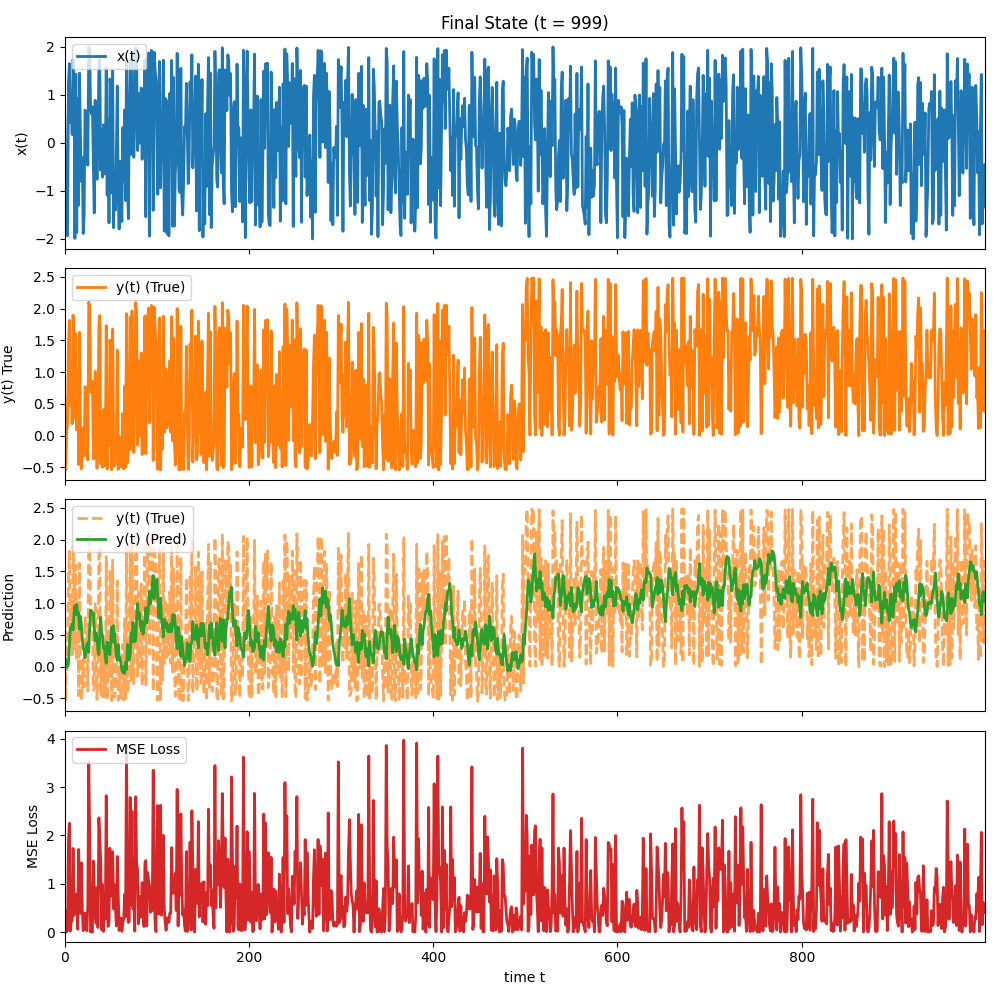
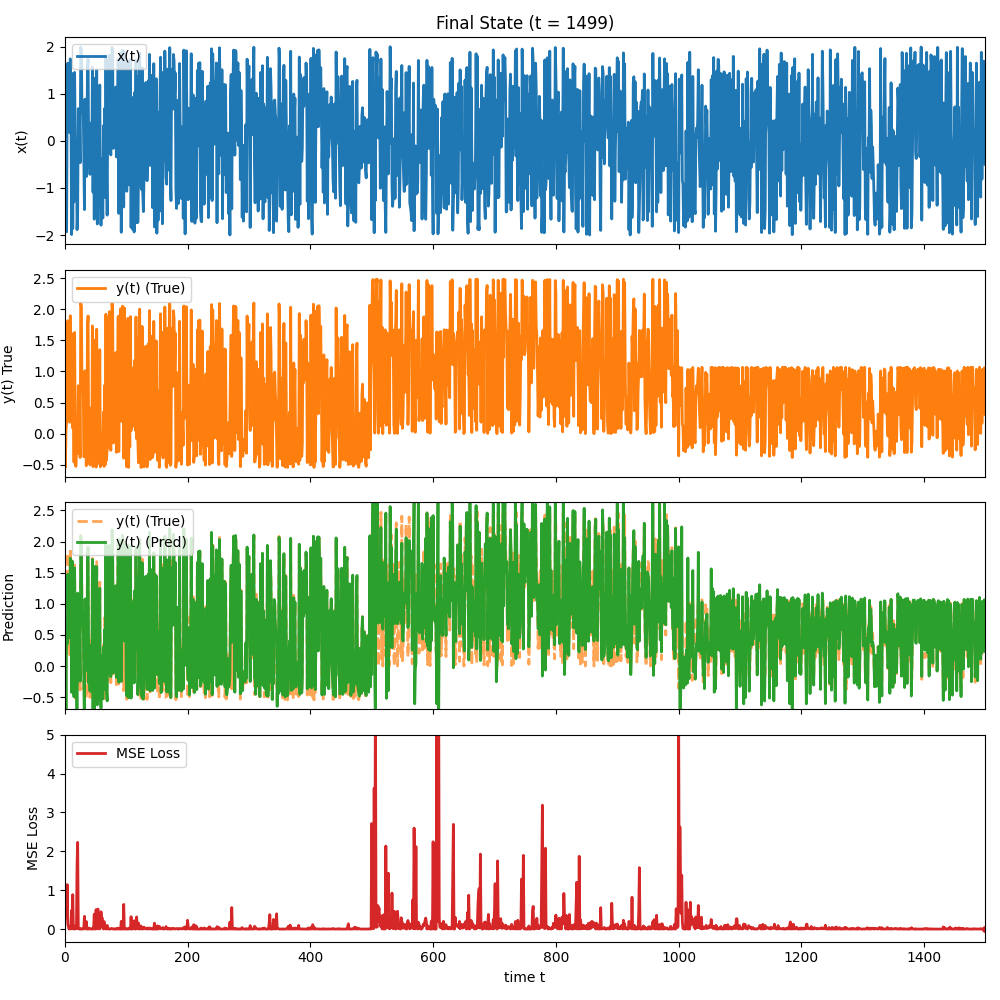
get MLP to work

diff --git a/demos/function_tracking/mlp_model/firmware/parameters.h b/demos/function_tracking/mlp_model/firmware/parameters.h
@@ -31,138 +31,138 @@ struct Context {
 //PARAM-INIT
 static Params P = {
     { {
-{ weight_t(-3.99126828e-02) },
-{ weight_t(-1.43560027e+00) },
-{ weight_t(-9.87890044e-01) },
-{ weight_t(-1.39210786e+00) },
-{ weight_t(-1.07933846e+00) },
-{ weight_t(1.41237983e-01) },
-{ weight_t(-2.19310129e-01) },
-{ weight_t(-3.11536338e-01) },
-{ weight_t(-7.61765704e-01) },
-{ weight_t(-9.20113318e-01) },
-{ weight_t(-1.96950721e+00) },
-{ weight_t(-1.62544162e+00) },
-{ weight_t(-1.34812057e-01) },
-{ weight_t(-1.89326437e+00) },
-{ weight_t(-8.70582737e-01) },
-{ weight_t(-1.65721557e+00) },
-{ weight_t(-1.12157088e+00) },
-{ weight_t(-9.72752400e-01) },
-{ weight_t(-2.41883388e+00) },
-{ weight_t(-6.73053316e-01) },
-{ weight_t(3.89557237e-02) },
-{ weight_t(-8.02290403e-01) },
-{ weight_t(-2.04057630e-01) },
-{ weight_t(-2.97018069e+00) },
-{ weight_t(-3.71632858e-01) },
-{ weight_t(-2.33867735e-01) },
-{ weight_t(4.79799439e-01) },
-{ weight_t(-3.59470972e+00) },
-{ weight_t(-8.98058712e-01) },
-{ weight_t(-1.31170204e+00) },
-{ weight_t(-1.83828655e+00) },
-{ weight_t(-6.08496957e-01) },
-{ weight_t(-2.83199850e-01) },
-{ weight_t(-2.89561005e+00) },
-{ weight_t(-3.32024661e+00) },
-{ weight_t(-3.17523078e-01) },
-{ weight_t(-1.44104185e+00) },
-{ weight_t(9.96627474e-02) },
-{ weight_t(-2.82773376e-01) },
-{ weight_t(-1.10989921e+00) },
-{ weight_t(-6.26031333e-01) },
-{ weight_t(-4.48631984e-01) },
-{ weight_t(-3.01633472e-01) },
-{ weight_t(-1.28908783e+00) },
-{ weight_t(-2.33365949e+00) },
-{ weight_t(-1.57052787e+00) },
-{ weight_t(-2.42795635e+00) },
-{ weight_t(-9.05694134e-01) },
-{ weight_t(-1.71075984e+00) },
-{ weight_t(-2.64577829e-01) },
-{ weight_t(2.12033963e-03) },
-{ weight_t(-1.05790142e+00) },
-{ weight_t(-9.76809001e-01) },
-{ weight_t(-1.33104810e+00) },
-{ weight_t(-2.13667708e+00) },
-{ weight_t(-1.20933059e+00) },
-{ weight_t(8.20511343e-02) },
-{ weight_t(-1.44289902e+00) },
-{ weight_t(-1.76255478e+00) },
-{ weight_t(-2.18156505e+00) },
-{ weight_t(-2.25701765e+00) },
-{ weight_t(-8.67078888e-02) },
-{ weight_t(9.40534088e-02) },
-{ weight_t(6.41378536e-01) },
-{ weight_t(-2.39448667e+00) },
-{ weight_t(1.00070331e+00) },
-{ weight_t(-7.16290855e-01) },
-{ weight_t(9.93008779e-01) },
-{ weight_t(-9.72770758e-01) },
-{ weight_t(-1.15321122e+00) },
-{ weight_t(-2.04721040e+00) },
-{ weight_t(-1.89120391e+00) },
-{ weight_t(-2.29976397e+00) },
-{ weight_t(-9.36305111e-01) },
-{ weight_t(1.43242483e+00) },
-{ weight_t(-2.45184635e+00) },
-{ weight_t(-2.49985449e+00) },
-{ weight_t(-1.68607970e+00) },
-{ weight_t(-1.93033576e+00) },
-{ weight_t(-1.67229185e+00) },
-{ weight_t(1.77774293e-01) },
-{ weight_t(-2.15651380e+00) },
-{ weight_t(-4.61273007e-01) },
-{ weight_t(-3.31546534e-01) },
-{ weight_t(-2.47134778e+00) },
-{ weight_t(-1.89471600e+00) },
-{ weight_t(-2.20430772e+00) },
-{ weight_t(-7.47546738e-01) },
-{ weight_t(-1.98334405e+00) },
-{ weight_t(-2.31335007e+00) },
-{ weight_t(-1.41616880e+00) },
-{ weight_t(-1.01781910e-01) },
-{ weight_t(-2.32834846e+00) },
-{ weight_t(-2.27021653e+00) },
-{ weight_t(-9.68409360e-01) },
-{ weight_t(3.02395463e-02) },
-{ weight_t(-3.06321816e-01) },
-{ weight_t(-7.39910949e-01) },
-{ weight_t(-2.67868470e-01) },
-{ weight_t(-1.32872007e+00) },
-{ weight_t(-1.32940521e+00) },
-{ weight_t(-1.36759425e+00) },
-{ weight_t(-2.48675735e+00) },
-{ weight_t(-1.04169437e+00) },
-{ weight_t(-2.75132729e+00) },
-{ weight_t(-1.23269647e+00) },
-{ weight_t(-2.18502829e+00) },
-{ weight_t(-2.01106800e+00) },
-{ weight_t(-1.01494022e+00) },
-{ weight_t(-2.38899724e+00) },
-{ weight_t(-1.70777847e+00) },
-{ weight_t(5.32546668e-01) },
-{ weight_t(-1.46397634e+00) },
-{ weight_t(-2.05894637e-01) },
-{ weight_t(-1.45695149e+00) },
-{ weight_t(8.58108329e-01) },
-{ weight_t(-2.47225176e+00) },
-{ weight_t(-5.00561822e-01) },
-{ weight_t(-3.77404263e-01) },
-{ weight_t(-2.49211913e-01) },
-{ weight_t(-1.59606787e+00) },
-{ weight_t(-2.28445391e-01) },
-{ weight_t(-1.17903740e+00) },
-{ weight_t(-2.24455327e+00) },
-{ weight_t(-1.09434332e+00) },
-{ weight_t(-1.26511777e+00) },
-{ weight_t(7.95782386e-02) },
-{ weight_t(-2.02852792e+00) }
-}, { weight_t(-1.13176762e+00), weight_t(-2.49891177e+00), weight_t(-2.09936376e+00), weight_t(-1.30676925e+00), weight_t(-5.17792649e-01), weight_t(-3.21166228e+00), weight_t(-1.45993361e-01), weight_t(-7.71817388e-01), weight_t(-4.80172826e-01), weight_t(-1.41182776e+00), weight_t(-2.27056418e+00), weight_t(-1.30223962e+00), weight_t(-1.22227446e+00), weight_t(-1.67160339e+00), weight_t(-4.51241565e-01), weight_t(-2.11319608e+00), weight_t(-2.36129337e+00), weight_t(-2.14745726e+00), weight_t(-1.86185480e+00), weight_t(-9.98345649e-01), weight_t(-7.37228879e-01), weight_t(-2.31221966e+00), weight_t(-1.89037602e+00), weight_t(-2.49468210e+00), weight_t(2.01525636e-01), weight_t(-4.41935287e-01), weight_t(-6.80950932e-01), weight_t(-1.62244213e+00), weight_t(-1.88279586e+00), weight_t(4.12790040e-02), weight_t(2.38362771e-01), weight_t(-3.79497067e+00), weight_t(-3.23757705e-01), weight_t(3.05210643e-01), weight_t(-2.54376335e+00), weight_t(-1.99805980e+00), weight_t(-1.73026896e+00), weight_t(1.71788811e+00), weight_t(-3.11979719e-02), weight_t(2.24402215e-01), weight_t(-6.64539911e-01), weight_t(-1.13267071e+00), weight_t(-2.50426990e+00), weight_t(-2.00928404e+00), weight_t(-2.18404173e+00), weight_t(-1.09795414e+00), weight_t(-1.90246189e+00), weight_t(-9.57577071e-01), weight_t(-1.28604637e-01), weight_t(-7.23256224e-01), weight_t(-9.38493446e-01), weight_t(-2.73679232e+00), weight_t(-1.91949732e+00), weight_t(-1.23348044e+00), weight_t(5.16629818e-01), weight_t(8.75584674e-01), weight_t(-3.06958094e+00), weight_t(-2.84472485e-01), weight_t(-8.66966907e-01), weight_t(-2.16139021e+00), weight_t(-1.05018669e+00), weight_t(-1.13398477e+00), weight_t(-2.30614980e-01), weight_t(-1.24673655e+00), weight_t(-1.12279078e+00), weight_t(-1.76922797e+00), weight_t(-2.62334469e-01), weight_t(-1.25335717e+00), weight_t(-1.33827932e+00), weight_t(-1.28543634e+00), weight_t(-1.43133430e+00), weight_t(-1.43136249e+00), weight_t(4.12723848e-01), weight_t(-1.03803101e+00), weight_t(-1.40775005e+00), weight_t(-7.33354922e-01), weight_t(-3.21044850e-01), weight_t(-8.25105549e-01), weight_t(4.04901409e-01), weight_t(-6.99069946e-01), weight_t(-1.32845264e+00), weight_t(-1.78606880e+00), weight_t(-2.73207940e+00), weight_t(-4.84500790e-01), weight_t(-7.88797298e-01), weight_t(-1.74961474e+00), weight_t(-1.65713219e+00), weight_t(-1.02523370e+00), weight_t(-1.19356055e-02), weight_t(-1.55849800e-01), weight_t(-2.04580886e+00), weight_t(-8.65451715e-01), weight_t(-1.08110651e+00), weight_t(-1.33753285e+00), weight_t(-6.02048177e-01), weight_t(-1.74134620e+00), weight_t(-9.96752718e-01), weight_t(-1.29366565e+00), weight_t(-1.97173204e+00), weight_t(-2.63237333e+00), weight_t(-7.61028491e-01), weight_t(-3.14414438e+00), weight_t(-9.81802318e-02), weight_t(-5.48798755e-01), weight_t(-2.17161671e+00), weight_t(-6.56229884e-02), weight_t(-1.50648702e+00), weight_t(-3.22060126e+00), weight_t(1.14329332e+00), weight_t(-5.74565447e-01), weight_t(-3.18042406e+00), weight_t(-5.42325534e-02), weight_t(-1.34157694e-02), weight_t(8.79080184e-01), weight_t(-2.43329582e+00), weight_t(-1.07561615e+00), weight_t(-2.42012327e-01), weight_t(6.90665335e-01), weight_t(3.48476488e-01), weight_t(-1.59896864e+00), weight_t(-9.23271138e-01), weight_t(-7.45851559e-01), weight_t(-1.13982026e+00), weight_t(3.25045693e-02), weight_t(-1.39149305e+00), weight_t(1.71481198e-01), weight_t(-1.67874628e+00), weight_t(-7.32401472e-01) } },
+{ weight_t(4.25936079e-01) },
+{ weight_t(-9.48994006e-01) },
+{ weight_t(-1.21900153e-01) },
+{ weight_t(8.72141177e-01) },
+{ weight_t(6.72432341e-01) },
+{ weight_t(-7.33813287e-01) },
+{ weight_t(-6.81451487e-01) },
+{ weight_t(-2.24213009e-01) },
+{ weight_t(4.85032357e-01) },
+{ weight_t(-1.93710027e-01) },
+{ weight_t(-8.98243093e-01) },
+{ weight_t(-3.21318776e-01) },
+{ weight_t(-3.78447974e-01) },
+{ weight_t(9.98495520e-01) },
+{ weight_t(6.35312788e-01) },
+{ weight_t(5.03031763e-01) },
+{ weight_t(4.75502686e-01) },
+{ weight_t(2.10944748e-01) },
+{ weight_t(1.65356886e-01) },
+{ weight_t(9.04702543e-01) },
+{ weight_t(6.12167081e-01) },
+{ weight_t(-5.84803819e-02) },
+{ weight_t(-8.57621835e-01) },
+{ weight_t(3.92466725e-01) },
+{ weight_t(8.08139356e-01) },
+{ weight_t(-2.92129186e-01) },
+{ weight_t(-6.30788944e-01) },
+{ weight_t(-5.49857085e-01) },
+{ weight_t(-8.53109290e-02) },
+{ weight_t(6.23344870e-01) },
+{ weight_t(-5.41784740e-01) },
+{ weight_t(-1.13106785e-01) },
+{ weight_t(1.10134178e-01) },
+{ weight_t(-7.17408142e-01) },
+{ weight_t(-8.46501402e-01) },
+{ weight_t(2.82484327e-01) },
+{ weight_t(-5.51451603e-02) },
+{ weight_t(-8.68549048e-01) },
+{ weight_t(8.29377625e-01) },
+{ weight_t(-7.42920624e-01) },
+{ weight_t(-4.43553353e-02) },
+{ weight_t(1.62241324e-01) },
+{ weight_t(-2.95576191e-01) },
+{ weight_t(-7.50943184e-01) },
+{ weight_t(3.31723997e-01) },
+{ weight_t(-4.84181337e-01) },
+{ weight_t(-8.82261039e-01) },
+{ weight_t(1.46155876e-01) },
+{ weight_t(-4.98334791e-01) },
+{ weight_t(4.04197981e-01) },
+{ weight_t(-8.59484713e-01) },
+{ weight_t(-6.57515416e-02) },
+{ weight_t(6.92591242e-01) },
+{ weight_t(-4.37019090e-01) },
+{ weight_t(4.54921010e-01) },
+{ weight_t(9.16256534e-01) },
+{ weight_t(6.66007751e-01) },
+{ weight_t(8.09005714e-01) },
+{ weight_t(8.23458170e-01) },
+{ weight_t(-5.51580706e-01) },
+{ weight_t(-2.60133327e-01) },
+{ weight_t(3.70409385e-01) },
+{ weight_t(9.56170183e-01) },
+{ weight_t(9.74494163e-01) },
+{ weight_t(-4.76508836e-01) },
+{ weight_t(-4.96023250e-01) },
+{ weight_t(-2.24850199e-01) },
+{ weight_t(1.96144006e-01) },
+{ weight_t(6.75294195e-01) },
+{ weight_t(-9.07873593e-01) },
+{ weight_t(-7.71934371e-01) },
+{ weight_t(7.93843667e-01) },
+{ weight_t(9.84168202e-03) },
+{ weight_t(3.36689958e-01) },
+{ weight_t(-7.68909679e-01) },
+{ weight_t(-9.73420938e-01) },
+{ weight_t(6.97196869e-01) },
+{ weight_t(-3.37404623e-01) },
+{ weight_t(6.16203570e-01) },
+{ weight_t(2.43201989e-01) },
+{ weight_t(-8.63199609e-01) },
+{ weight_t(-4.39047958e-01) },
+{ weight_t(-9.77728684e-01) },
+{ weight_t(-7.40461592e-01) },
+{ weight_t(-4.53149277e-01) },
+{ weight_t(2.72097424e-01) },
+{ weight_t(2.68050724e-01) },
+{ weight_t(-6.80601283e-01) },
+{ weight_t(-1.82580537e-01) },
+{ weight_t(8.12900342e-01) },
+{ weight_t(-1.04546000e-01) },
+{ weight_t(3.24330748e-01) },
+{ weight_t(-8.75118433e-01) },
+{ weight_t(-5.54417273e-01) },
+{ weight_t(-9.92806665e-01) },
+{ weight_t(8.12541772e-01) },
+{ weight_t(-2.10774079e-01) },
+{ weight_t(-9.21786329e-01) },
+{ weight_t(4.90110291e-02) },
+{ weight_t(4.91793981e-01) },
+{ weight_t(1.47276415e-01) },
+{ weight_t(-6.39909968e-01) },
+{ weight_t(6.27579266e-01) },
+{ weight_t(7.27935979e-01) },
+{ weight_t(9.93369123e-01) },
+{ weight_t(-6.26369197e-01) },
+{ weight_t(6.70446744e-01) },
+{ weight_t(-5.13112688e-01) },
+{ weight_t(7.57788273e-02) },
+{ weight_t(1.65167308e-01) },
+{ weight_t(2.00396259e-01) },
+{ weight_t(4.25723284e-02) },
+{ weight_t(8.63084557e-01) },
+{ weight_t(-6.35840970e-01) },
+{ weight_t(-7.00408881e-01) },
+{ weight_t(8.18038220e-01) },
+{ weight_t(6.90946040e-01) },
+{ weight_t(9.33509186e-01) },
+{ weight_t(7.67959495e-01) },
+{ weight_t(-5.27702322e-01) },
+{ weight_t(4.05241971e-01) },
+{ weight_t(1.61480469e-01) },
+{ weight_t(-8.11587966e-01) },
+{ weight_t(2.38346400e-01) },
+{ weight_t(2.40083244e-02) },
+{ weight_t(-4.41318681e-01) },
+{ weight_t(-3.85502601e-01) },
+{ weight_t(-2.56636978e-01) }
+}, { weight_t(-9.15681773e-01), weight_t(-8.43101293e-01), weight_t(6.39634180e-01), weight_t(-1.55161798e-01), weight_t(-4.34149575e-01), weight_t(-4.52809355e-01), weight_t(5.23026642e-01), weight_t(2.99191540e-01), weight_t(5.66319636e-01), weight_t(1.54406477e-01), weight_t(-6.10399141e-01), weight_t(5.06124881e-01), weight_t(-2.51956336e-01), weight_t(1.17605074e-01), weight_t(4.59956438e-01), weight_t(-6.78408346e-01), weight_t(8.90464994e-02), weight_t(-2.98818658e-01), weight_t(-9.30309222e-01), weight_t(-1.45677516e-01), weight_t(2.18640257e-01), weight_t(3.63793258e-01), weight_t(-3.86426155e-01), weight_t(9.06605216e-02), weight_t(-4.54466515e-01), weight_t(-5.18732617e-01), weight_t(1.59975536e-01), weight_t(3.91632636e-01), weight_t(2.21479701e-01), weight_t(-3.75762227e-01), weight_t(8.31735017e-01), weight_t(-6.03761355e-02), weight_t(1.30611348e-01), weight_t(1.21763219e-01), weight_t(-2.62172265e-01), weight_t(6.65896549e-01), weight_t(7.25245713e-01), weight_t(2.43287311e-01), weight_t(-3.97573723e-01), weight_t(4.16992066e-01), weight_t(1.69268007e-01), weight_t(-3.68942754e-01), weight_t(-3.06399081e-01), weight_t(-9.68408769e-01), weight_t(-8.02203881e-01), weight_t(5.51926813e-01), weight_t(-9.60441572e-02), weight_t(6.09289539e-01), weight_t(-6.06331004e-01), weight_t(-9.08221408e-02), weight_t(-7.44807732e-01), weight_t(-9.79817418e-01), weight_t(-4.28137373e-01), weight_t(-5.03928300e-01), weight_t(-7.26586747e-01), weight_t(2.81184050e-01), weight_t(4.77027251e-02), weight_t(-5.06094894e-01), weight_t(-5.61188623e-02), weight_t(3.07283188e-01), weight_t(6.72148498e-01), weight_t(2.54421953e-01), weight_t(-5.46759611e-01), weight_t(-3.95713324e-01), weight_t(1.81013408e-01), weight_t(-1.44518647e-01), weight_t(3.47342282e-01), weight_t(4.65372722e-01), weight_t(-2.88220676e-01), weight_t(9.26150798e-01), weight_t(4.44129005e-01), weight_t(5.24479370e-01), weight_t(-1.64114800e-01), weight_t(1.42905588e-02), weight_t(-1.95649810e-01), weight_t(5.88946329e-02), weight_t(5.91160255e-01), weight_t(-2.71971982e-03), weight_t(-3.58747801e-01), weight_t(-2.84916617e-01), weight_t(-1.30552437e-01), weight_t(6.53553126e-01), weight_t(-8.22683269e-01), weight_t(1.65317146e-01), weight_t(2.87873044e-01), weight_t(-9.73399670e-01), weight_t(1.75576175e-02), weight_t(9.31638142e-01), weight_t(2.89343801e-01), weight_t(3.06725518e-01), weight_t(8.63763593e-01), weight_t(-4.43608992e-01), weight_t(-6.71888904e-01), weight_t(-6.32835806e-01), weight_t(7.12396791e-01), weight_t(-5.33710149e-01), weight_t(-1.77817595e-01), weight_t(-6.96639889e-02), weight_t(5.83510183e-01), weight_t(7.58415647e-02), weight_t(9.12398926e-01), weight_t(6.85266689e-01), weight_t(-4.01280959e-02), weight_t(1.45721064e-01), weight_t(-8.95915528e-01), weight_t(3.92195299e-01), weight_t(-2.84017857e-01), weight_t(-9.27420030e-01), weight_t(-9.83244254e-01), weight_t(-1.75988721e-01), weight_t(-6.00014124e-01), weight_t(-2.85045019e-01), weight_t(-4.61284042e-01), weight_t(-7.59772730e-01), weight_t(-3.80436985e-01), weight_t(-6.72249718e-01), weight_t(5.08318973e-01), weight_t(2.69906283e-01), weight_t(-8.77465480e-01), weight_t(3.35321891e-02), weight_t(2.63716182e-03), weight_t(7.41461778e-01), weight_t(1.44447232e-01), weight_t(7.49448960e-01), weight_t(-1.54546119e-01), weight_t(-5.71213497e-02), weight_t(-1.59831638e-01), weight_t(-5.57264183e-01) } },
     { {
-{ weight_t(-6.17983123e-02), weight_t(-1.51744982e-01), weight_t(6.34236170e-03), weight_t(-2.02362489e-02), weight_t(-1.77258462e-01), weight_t(-3.66520589e-02), weight_t(-1.70786697e-01), weight_t(-1.00840845e-01), weight_t(-9.83775782e-02), weight_t(-2.58091738e-01), weight_t(-1.80105264e-01), weight_t(-1.65317883e-01), weight_t(-2.17687044e-01), weight_t(-1.89422085e-02), weight_t(3.21637577e-03), weight_t(-1.39040294e-01), weight_t(-2.13856903e-02), weight_t(-2.77152312e-02), weight_t(-9.49855655e-02), weight_t(-7.11620306e-02), weight_t(-5.70878579e-02), weight_t(-1.14183383e-01), weight_t(-1.42302825e-02), weight_t(-2.04659463e-01), weight_t(-9.65535281e-02), weight_t(3.49287455e-02), weight_t(-8.97407801e-02), weight_t(-1.30442684e-01), weight_t(-4.21062546e-02), weight_t(-1.72487257e-01), weight_t(-5.87479208e-02), weight_t(7.09135611e-02), weight_t(-9.81029206e-02), weight_t(1.17899290e-01), weight_t(-1.66866332e-01), weight_t(-1.13491198e-02), weight_t(4.81006546e-02), weight_t(7.34218819e-02), weight_t(-1.18900381e-01), weight_t(-1.38468859e-01), weight_t(-5.53139180e-02), weight_t(-2.68402829e-01), weight_t(-1.77688073e-01), weight_t(-1.80188288e-01), weight_t(-1.05809885e-01), weight_t(-8.66155375e-02), weight_t(-4.28183905e-02), weight_t(-1.32729024e-01), weight_t(-5.76408239e-02), weight_t(-7.18395384e-02), weight_t(-2.07507956e-01), weight_t(-2.37277740e-01), weight_t(-6.42133680e-02), weight_t(-1.94252519e-02), weight_t(-1.74484643e-01), weight_t(-1.16924522e-01), weight_t(-1.38536272e-01), weight_t(-1.92426904e-01), weight_t(-2.67315775e-02), weight_t(-6.82068722e-02), weight_t(-2.18239313e-01), weight_t(-1.25041094e-01), weight_t(9.72763332e-02), weight_t(-1.12790352e-01), weight_t(-9.87688566e-02), weight_t(-1.03806387e-01), weight_t(-5.32869143e-02), weight_t(-1.73981466e-01), weight_t(-2.12988191e-01), weight_t(-2.89717892e-01), weight_t(-9.30409942e-02), weight_t(-2.02076250e-01), weight_t(-1.09307524e-01), weight_t(-2.26479547e-01), weight_t(-9.83818393e-03), weight_t(-2.62391775e-01), weight_t(-4.78209047e-02), weight_t(-2.78769320e-01), weight_t(-1.43210858e-01), weight_t(-8.44104257e-02), weight_t(-1.46753020e-01), weight_t(-1.46493817e-01), weight_t(-4.33278101e-02), weight_t(-1.31680822e-01), weight_t(-1.75929691e-01), weight_t(-2.55530854e-01), weight_t(-9.05927775e-02), weight_t(-1.58217096e-01), weight_t(-1.61080487e-01), weight_t(-3.31959368e-02), weight_t(-1.13524400e-01), weight_t(-1.15314825e-01), weight_t(-1.84457098e-02), weight_t(-6.67247568e-02), weight_t(-1.30488179e-01), weight_t(-1.36818329e-01), weight_t(-8.23263109e-02), weight_t(-1.78755113e-01), weight_t(-6.94199972e-02), weight_t(-1.60804286e-01), weight_t(1.00368862e-01), weight_t(5.45628673e-02), weight_t(1.50847373e-02), weight_t(-1.80159613e-01), weight_t(-6.88345165e-02), weight_t(5.25365533e-02), weight_t(8.81335726e-02), weight_t(-1.91517378e-01), weight_t(-1.19412800e-01), weight_t(-1.32822101e-01), weight_t(-2.20038687e-01), weight_t(-5.52316964e-02), weight_t(-5.69939769e-02), weight_t(-1.75127472e-01), weight_t(-1.35971744e-01), weight_t(-1.33902921e-01), weight_t(-9.85936703e-02), weight_t(2.38025822e-02), weight_t(-6.46473205e-02), weight_t(-4.99129989e-02), weight_t(-4.77505070e-02), weight_t(-6.56876822e-02), weight_t(-5.15510294e-02), weight_t(-1.02877512e-01), weight_t(-1.23095600e-01), weight_t(-5.24114781e-02), weight_t(-6.94310891e-02), weight_t(-1.17792685e-01) }
-}, { weight_t(-1.41250043e-01) } }
+{ weight_t(4.75183723e-02), weight_t(-8.56282953e-02), weight_t(6.62942520e-02), weight_t(5.51558013e-02), weight_t(5.21023379e-02), weight_t(-3.27888587e-02), weight_t(-3.15717900e-03), weight_t(3.39636962e-02), weight_t(8.45677010e-02), weight_t(1.85293914e-02), weight_t(-4.77931310e-02), weight_t(-7.04737690e-02), weight_t(8.48027700e-03), weight_t(-1.50533562e-02), weight_t(-8.64763248e-02), weight_t(-4.71159557e-02), weight_t(-6.32728783e-02), weight_t(-7.61051884e-02), weight_t(9.58026876e-03), weight_t(-4.19703782e-02), weight_t(4.81304730e-02), weight_t(-8.47995372e-03), weight_t(-8.04248021e-02), weight_t(4.81145817e-02), weight_t(-5.36256283e-03), weight_t(4.01781562e-02), weight_t(4.60377367e-02), weight_t(-6.58374195e-02), weight_t(6.02310587e-03), weight_t(-1.06438494e-02), weight_t(-2.79298930e-02), weight_t(4.34517368e-02), weight_t(7.20379541e-02), weight_t(-5.78083461e-02), weight_t(3.51456843e-02), weight_t(7.32143557e-02), weight_t(8.44283593e-02), weight_t(-6.76302172e-02), weight_t(-1.69061871e-02), weight_t(-7.17664317e-02), weight_t(2.08523578e-03), weight_t(-7.72752862e-02), weight_t(2.08873541e-02), weight_t(6.86110631e-02), weight_t(7.90542723e-02), weight_t(-6.48444154e-02), weight_t(2.29011004e-02), weight_t(-6.77407558e-02), weight_t(6.88373717e-02), weight_t(-1.97715943e-02), weight_t(-7.04511669e-02), weight_t(-4.98388998e-02), weight_t(-5.02818556e-03), weight_t(-5.64915364e-02), weight_t(-1.91301418e-02), weight_t(8.00511521e-02), weight_t(3.18211809e-02), weight_t(8.72670032e-02), weight_t(-6.55233048e-02), weight_t(-2.78732829e-02), weight_t(2.38356716e-02), weight_t(4.68965984e-03), weight_t(6.30618817e-02), weight_t(-4.14743195e-02), weight_t(-3.91230308e-02), weight_t(3.45078222e-02), weight_t(3.92313281e-02), weight_t(-3.29397756e-02), weight_t(4.71542893e-02), weight_t(8.69500057e-02), weight_t(4.71736753e-02), weight_t(-5.57519763e-02), weight_t(1.42654474e-02), weight_t(6.99127041e-03), weight_t(3.90228242e-02), weight_t(-3.61317616e-02), weight_t(-6.64859428e-02), weight_t(-6.50152217e-03), weight_t(3.20967612e-02), weight_t(9.65246956e-03), weight_t(8.26311479e-02), weight_t(5.57077889e-02), weight_t(-6.80690536e-03), weight_t(3.97112287e-02), weight_t(-3.39505797e-02), weight_t(4.15099980e-02), weight_t(-3.01748510e-02), weight_t(-7.52260572e-02), weight_t(-4.41909775e-02), weight_t(7.50034979e-03), weight_t(6.84462767e-02), weight_t(-4.07584461e-02), weight_t(-1.02964766e-03), weight_t(-4.21672849e-02), weight_t(6.52183176e-02), weight_t(-5.25936626e-03), weight_t(-4.79331167e-02), weight_t(4.05374756e-02), weight_t(-6.27815695e-02), weight_t(5.30790728e-02), weight_t(5.79178504e-02), weight_t(7.11463577e-02), weight_t(3.43666061e-02), weight_t(1.68114764e-02), weight_t(-5.77967624e-02), weight_t(-1.17213120e-03), weight_t(7.66255699e-02), weight_t(-8.53041768e-02), weight_t(6.12135567e-02), weight_t(8.23876637e-02), weight_t(-6.22523980e-02), weight_t(-7.22001599e-02), weight_t(4.52404093e-02), weight_t(2.89136546e-02), weight_t(2.62454522e-02), weight_t(5.82577951e-02), weight_t(-4.74111830e-02), weight_t(-3.07247404e-02), weight_t(-7.14239270e-02), weight_t(3.42272498e-02), weight_t(6.82858869e-02), weight_t(-3.38697568e-02), weight_t(1.32140673e-02), weight_t(-3.04316462e-02), weight_t(-7.02203284e-03), weight_t(-5.03933060e-02), weight_t(-8.89859800e-03), weight_t(-7.03131571e-02) }
+}, { weight_t(5.53072901e-02) } }
 };
 
 #endif

diff --git a/demos/function_tracking/common.py b/demos/function_tracking/common.py
@@ -106,7 +106,7 @@ def save_static_four_plots(t_data, x_data, y_data, y_pred_data, loss_data, out_f
     ax4.plot([t_data[-1]], [loss_data[-1]], "o", ms=4, color="C3") # Final dot
     lpad = 0.05 * (loss_data.max() - loss_data.min() + 1e-9)
     # Set bottom y-limit to 0 or just below min
-    ax4.set_ylim(min(0, loss_data.min()) - lpad, loss_data.max() + lpad)
+    ax4.set_ylim(min(0, loss_data.min()) - lpad, 5)
     ax4.set_ylabel("MSE Loss")
     ax4.legend(loc="upper left")
 

diff --git a/src/mlp.py b/src/mlp.py
@@ -127,8 +127,8 @@ class MLP:
 
             #Use kaiming initialization
             std = np.sqrt(1 / in_dim)
-            W = np.random.normal(-std, std, size=(out_dim, in_dim))
-            b = np.random.normal(-std, std, size=out_dim)
+            W = np.random.uniform(-std, std, size=(out_dim, in_dim))
+            b = np.random.uniform(-std, std, size=out_dim)
 
             W_cpp = tools.format_cpp_array(W)
             b_cpp = tools.format_cpp_array(b)

diff --git a/demos/function_tracking/mlp_train.py b/demos/function_tracking/mlp_train.py
@@ -24,7 +24,7 @@ config = {
     
     #Others
     'model_name': 'mlp_model',
-    'learning_rate': 0.1,
+    'learning_rate': 0.01,
 
     #Hardware specification
     'fpga_part': 'xcvu13p-flga2577-2-e',
@@ -46,7 +46,7 @@ for i in range(len(t_series)):
     y_pred_series.append(pred)
 
     #Compute the loss
-    mse_loss = np.mean((y - pred)**2)
+    mse_loss = np.mean((pred - y)**2)
     mse_loss_series.append(mse_loss)
 
     #Calculate the feedback

diff --git a/demos/function_tracking/mlp_model/firmware/defines.h b/demos/function_tracking/mlp_model/firmware/defines.h
@@ -14,6 +14,6 @@ typedef float input_t;
 typedef float output_t;
 
 // LEARNING RATE
-static const weight_t LR = weight_t(0.1);
+static const weight_t LR = weight_t(0.01);
 
 #endif
